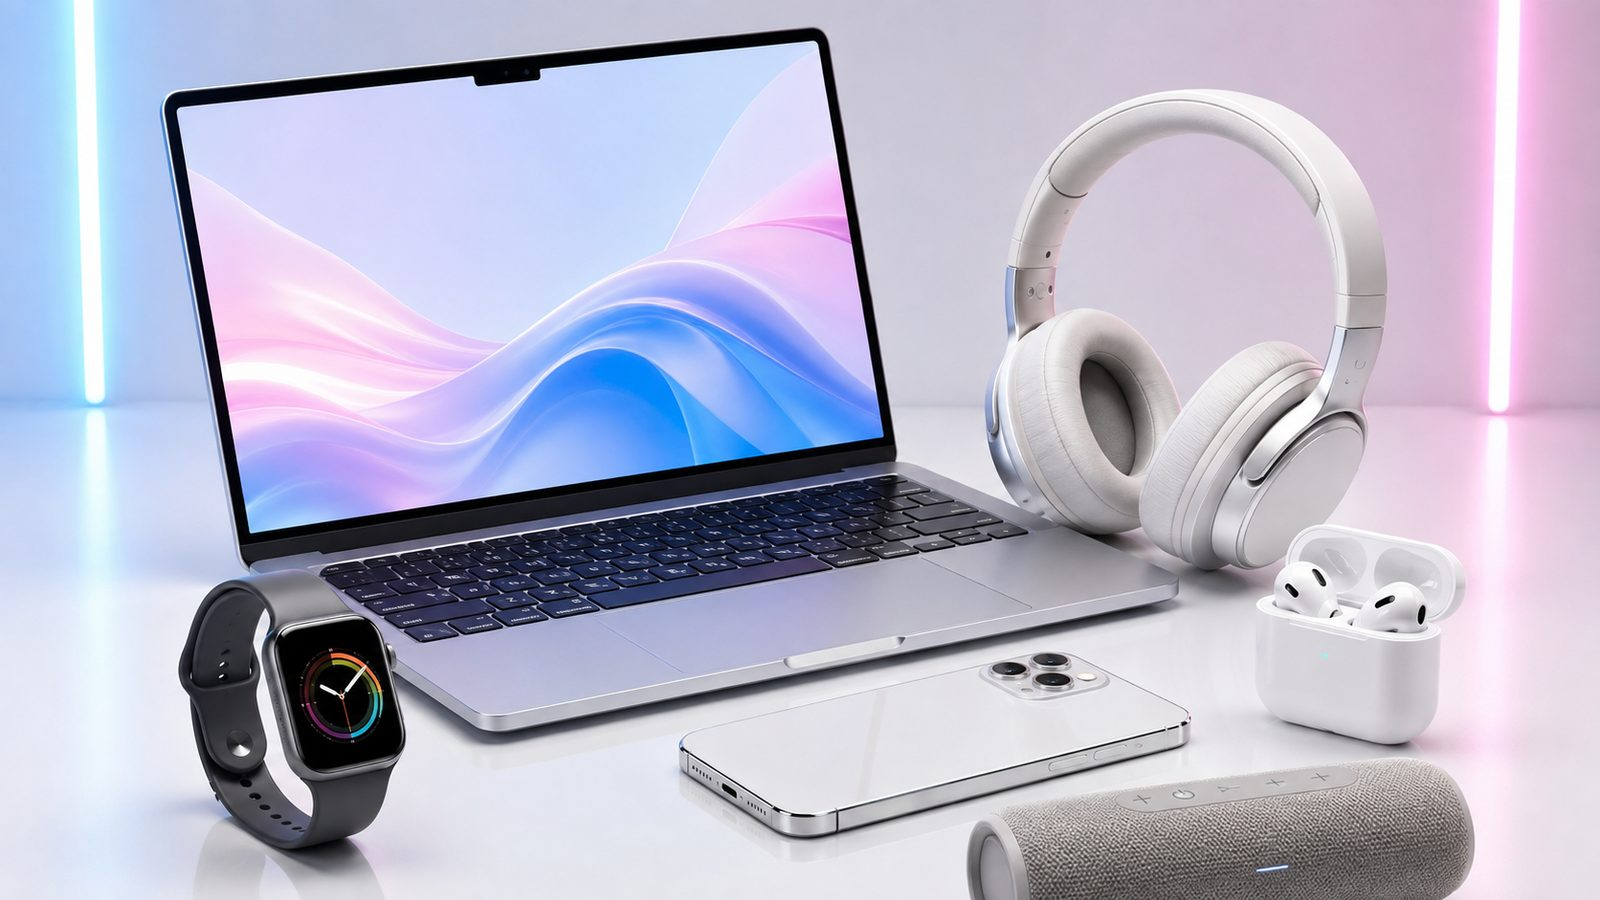
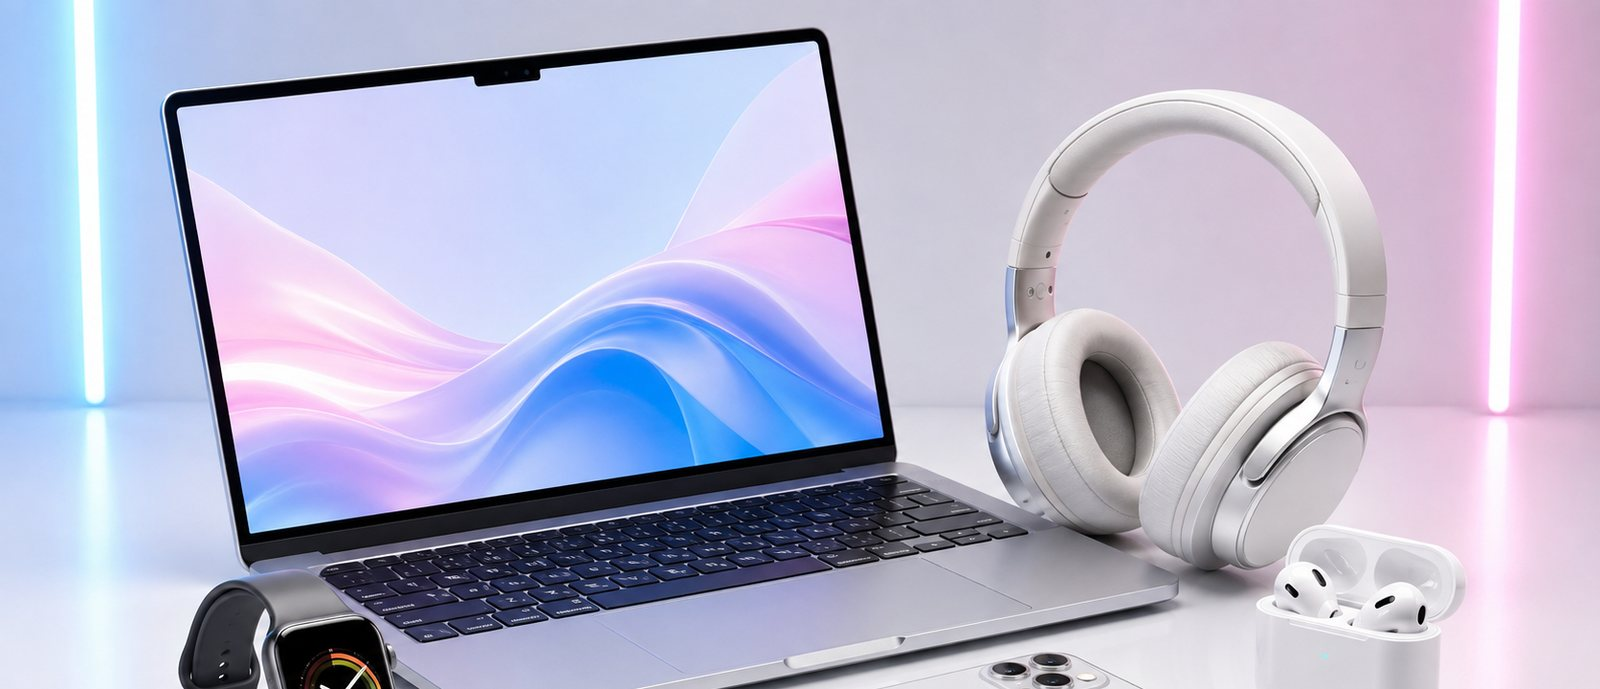
Hero: imagen recortada (franja) + boton WhatsApp del header en blanco
- Imagen del hero recortada a la franja superior (laptop + auriculares +
  airpods), sin la parte de abajo. Hero mas corto y adaptado.
- Boton 'Comprar por WhatsApp' del header en blanco con texto oscuro,
  igual que el de la seccion CTA.

diff --git a/app/globals.css b/app/globals.css
@@ -4196,3 +4196,11 @@ img[src*="wimali-logo"], .admin-logo, .menu-top img { mix-blend-mode: normal !im
 @media (max-width: 767px) {
   .hero-overlay { display: none !important; }
 }
+
+/* ===== Boton "Comprar por WhatsApp" del header en blanco (como el de la CTA) ===== */
+.btn-wa--header {
+  background: #ffffff !important;
+  color: #1a1a1a !important;
+  box-shadow: 0 6px 18px rgba(0, 0, 0, 0.15) !important;
+}
+.btn-wa--header:hover { background: #f2f2f2 !important; color: #1a1a1a !important; }
